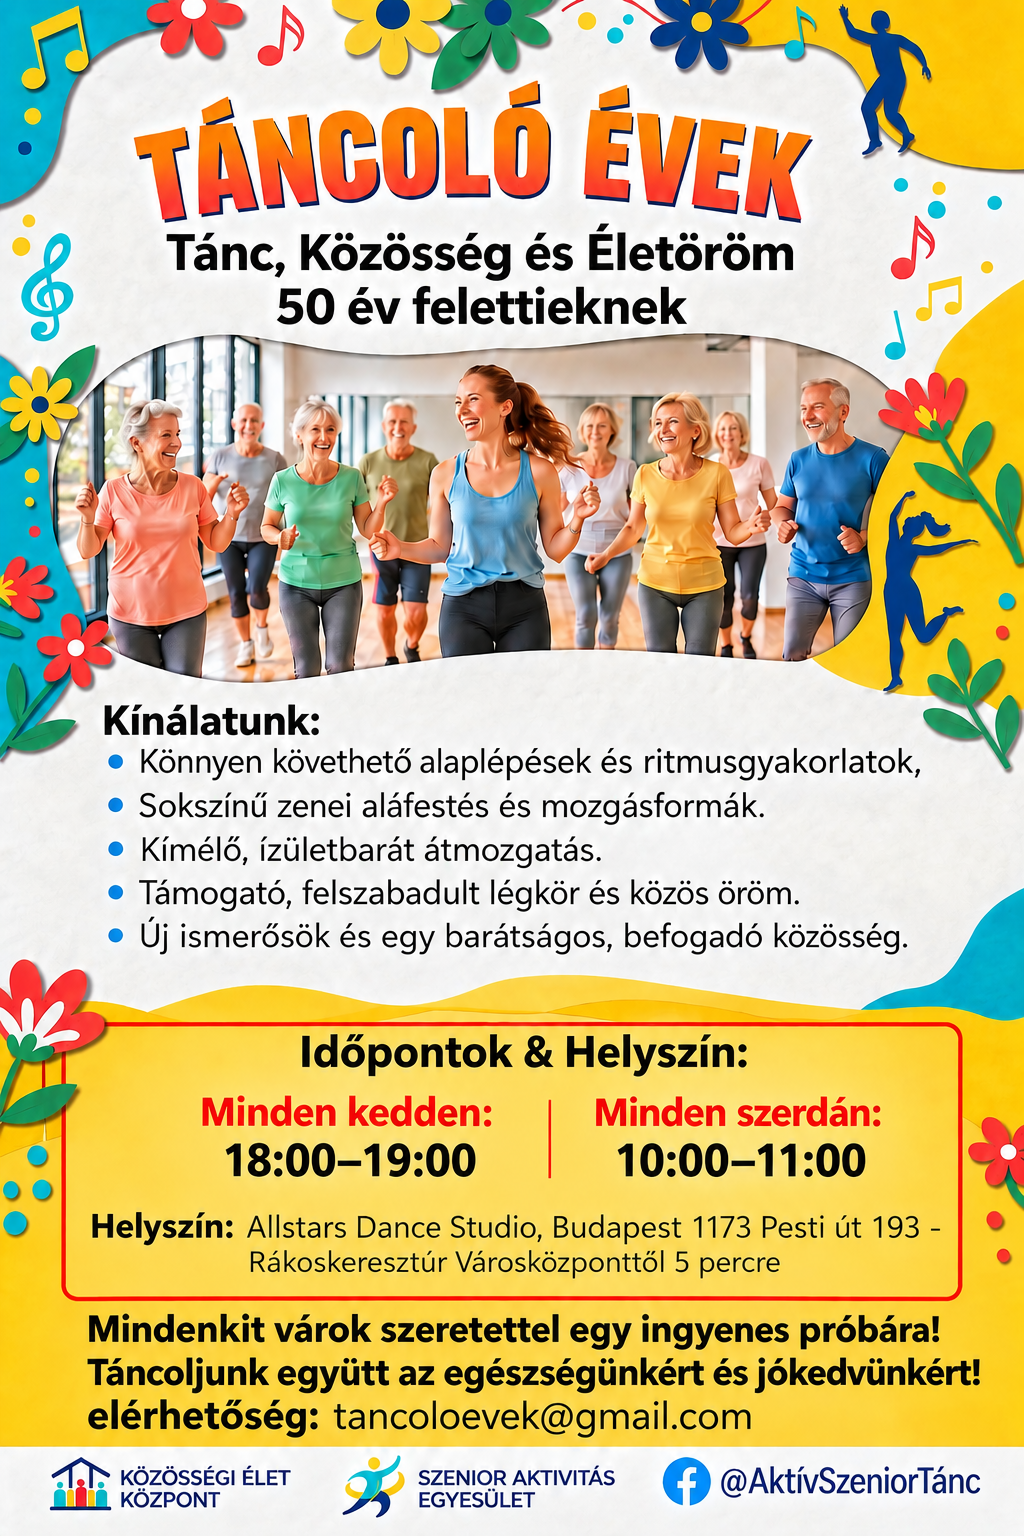
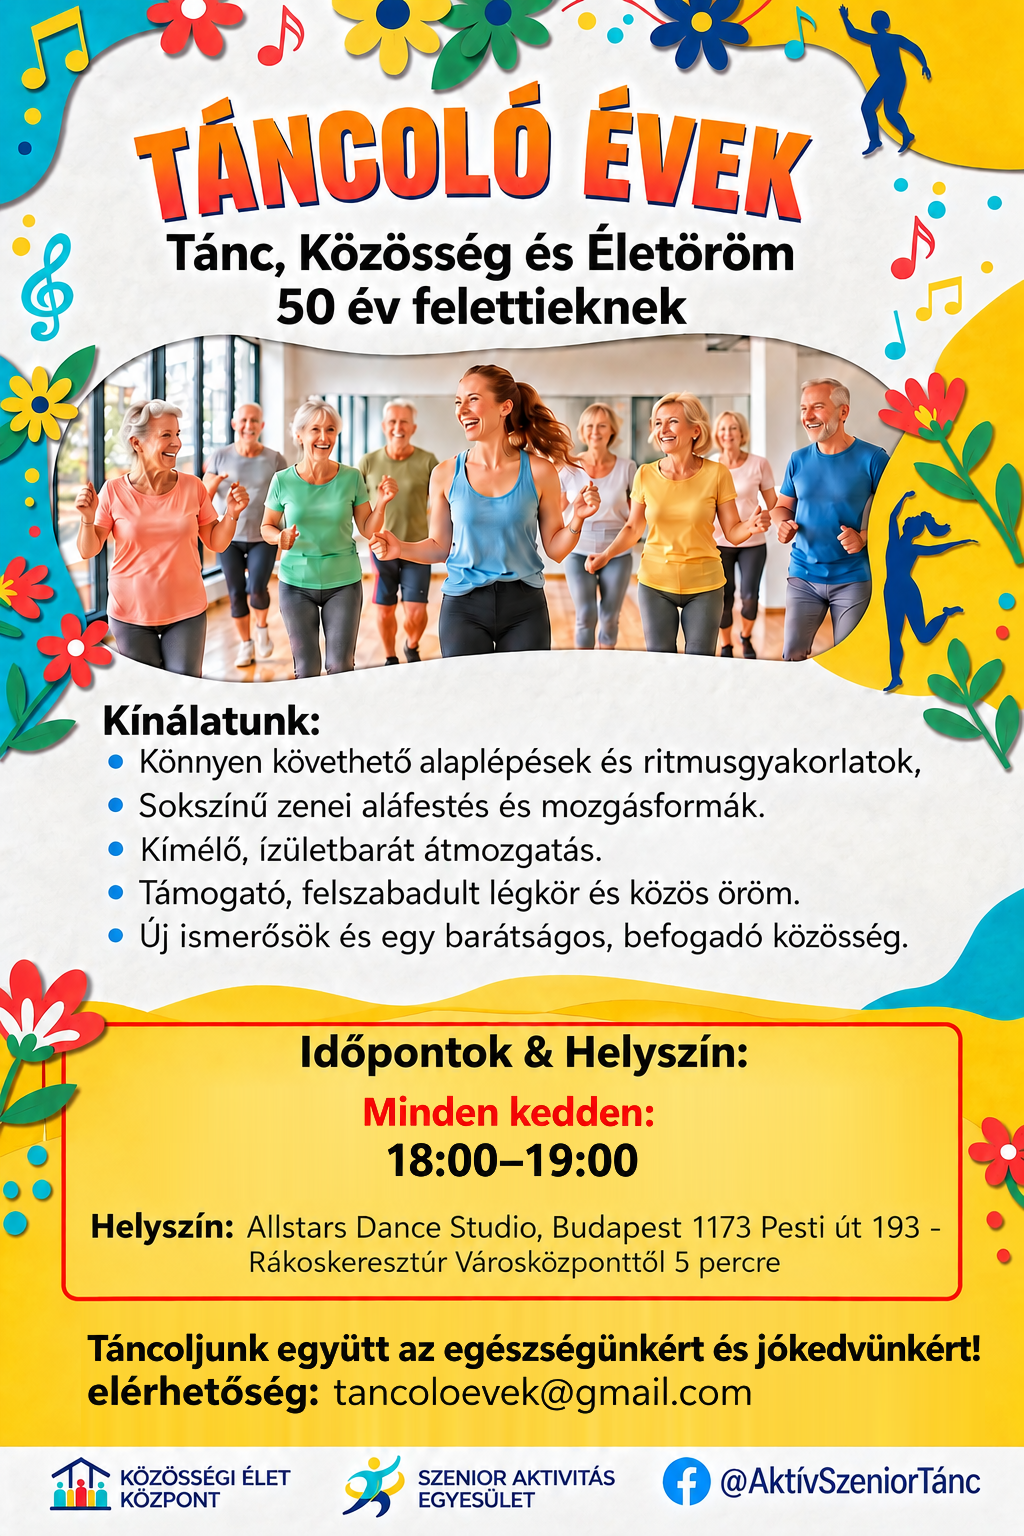
content: Táncoló Évek szerdai délelőtti óra és ingyenes próba ki
- Csak a keddi 18:00–19:00 óra marad (oldal, órarend-tábla, JSON-LD)
- Plakát: szerdai időpont és „ingyenes próbára” sor kiszerkesztve

Changed region(s): [[0.0625, 0.8438, 0.9688, 0.9375], [0.1875, 0.6875, 0.875, 0.7812]]

diff --git a/tests/unit/site.test.ts b/tests/unit/site.test.ts
@@ -5,7 +5,7 @@ import { formatSlot } from "@/lib/schedule";
 test("plakát szerinti időpontok", () => {
   const bySlug = Object.fromEntries(site.classes.map((c) => [c.slug, c.slots.map(formatSlot)]));
   expect(bySlug["broadway"]).toEqual([]);
-  expect(bySlug["tancolo-evek"]).toEqual(["Minden kedden 18:00–19:00", "Minden szerdán 10:00–11:00"]);
+  expect(bySlug["tancolo-evek"]).toEqual(["Minden kedden 18:00–19:00"]);
 });
 
 test("helyszín és elérhetőség a plakát szerint", () => {

diff --git a/src/content/site.ts b/src/content/site.ts
@@ -76,7 +76,6 @@ const classes: DanceClass[] = [
     ],
     slots: [
       { kind: "weekly", weekday: "kedd", start: "18:00", end: "19:00" },
-      { kind: "weekly", weekday: "szerda", start: "10:00", end: "11:00" },
     ],
     poster: { src: "/posters/tancolo-evek.png", alt: "Táncoló Évek – az óra plakátja", width: 1024, height: 1536 },
     image: { src: "/media/tancolo-evek.jpg", alt: "Mosolygó, 50 év feletti táncosok egy világos stúdióban", width: 1612, height: 2000 },
